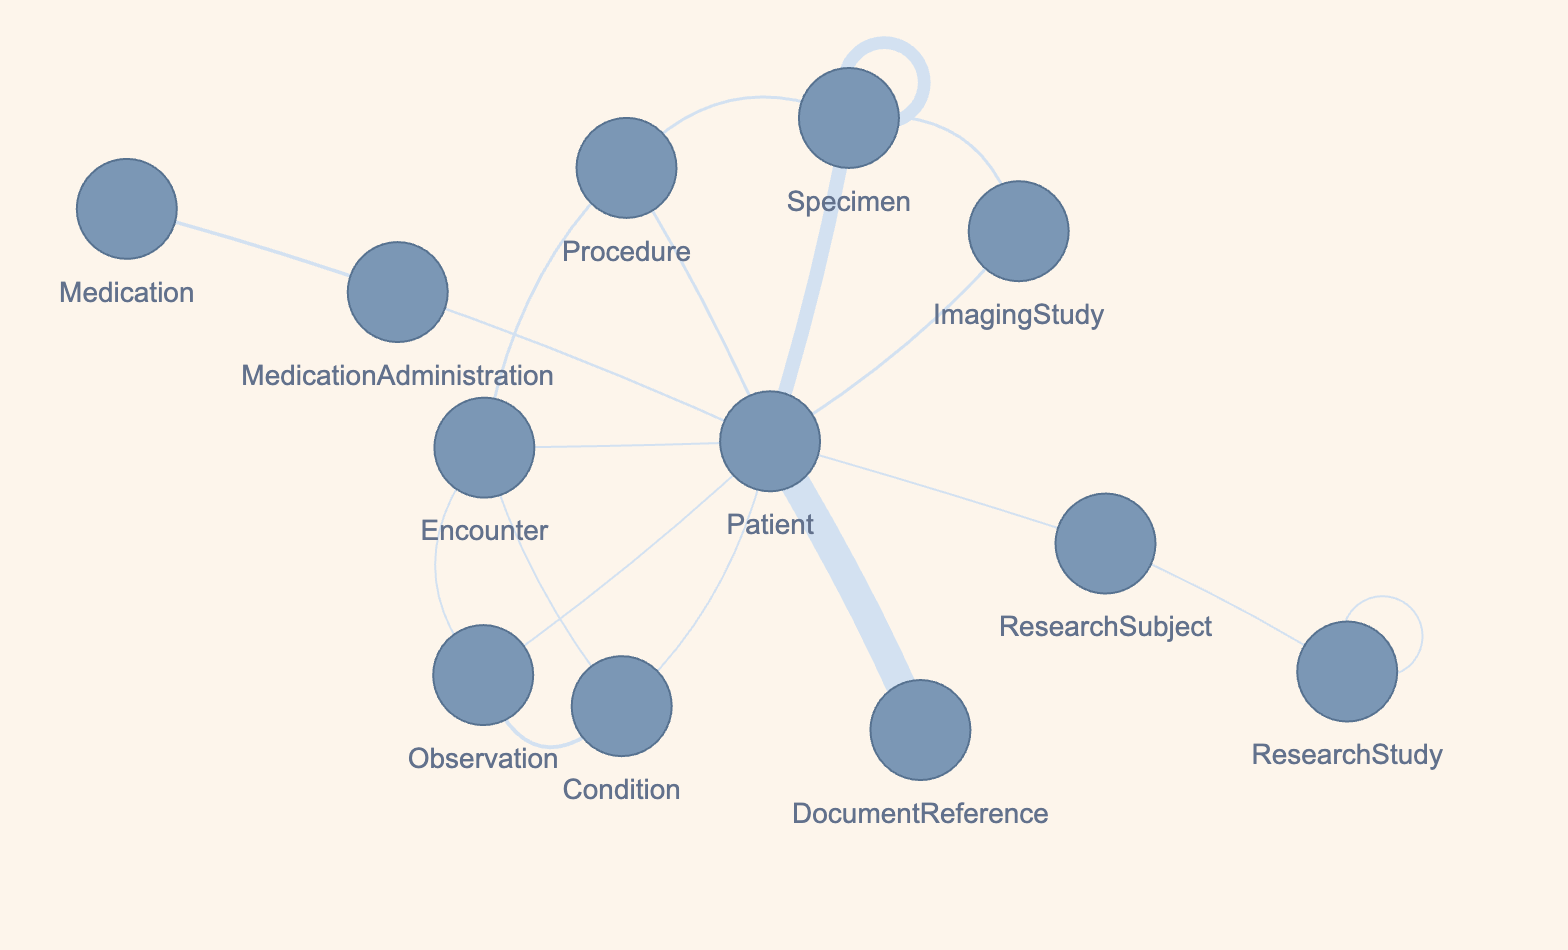
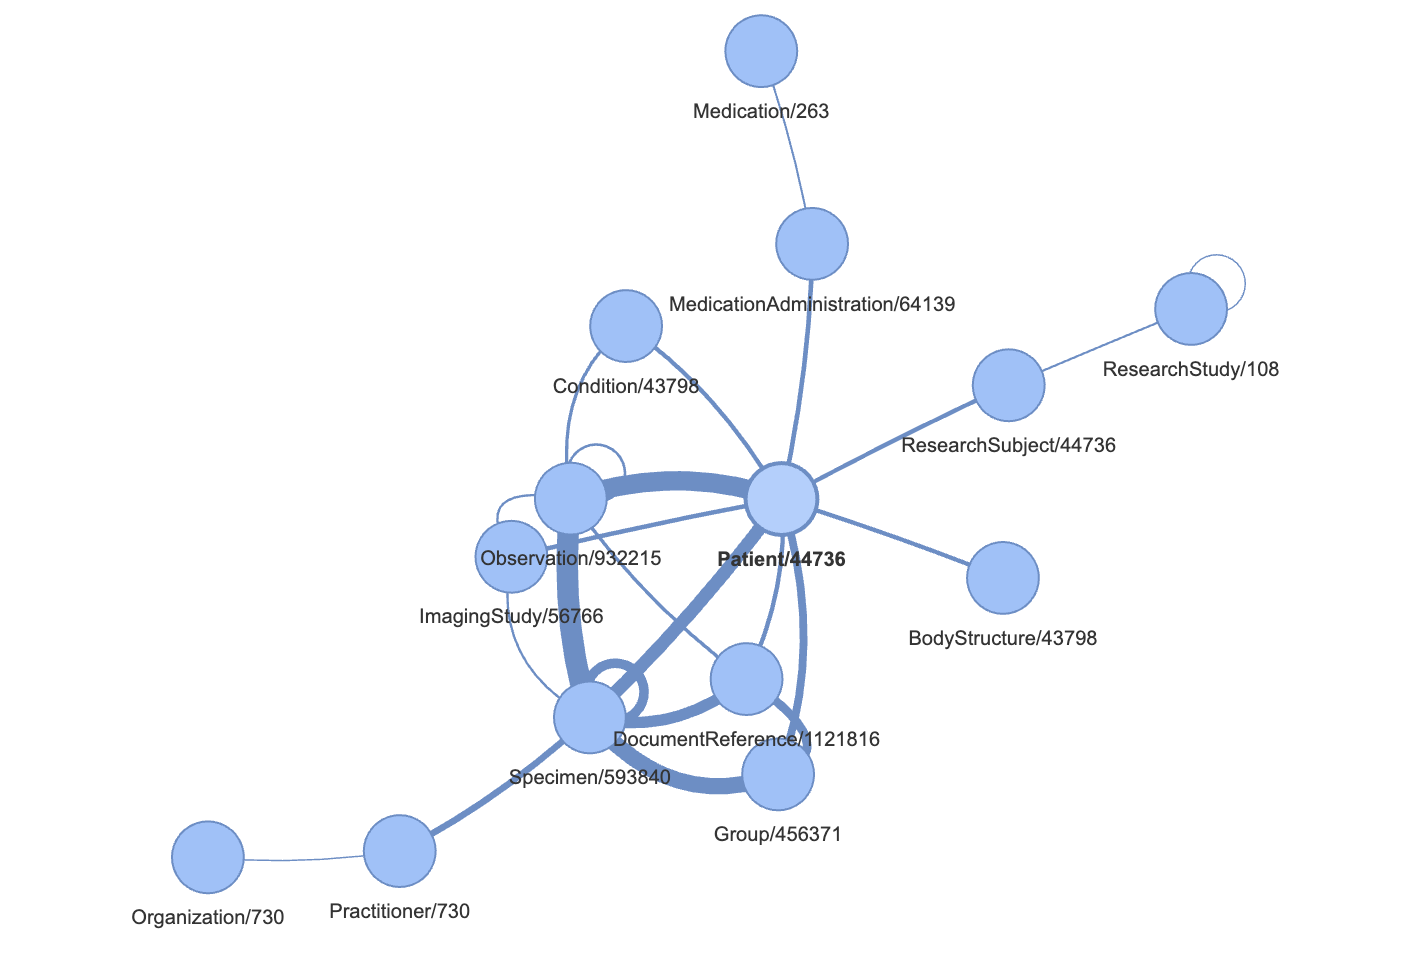
update gdc graph img

diff --git a/README.md b/README.md
@@ -10,7 +10,7 @@
 ### Project overview:
 Transforms and harmonizes data from Genomic Data Commons (GDC), Cellosaurus cell-lines, International Cancer Genome Consortium (ICGC), and Human Tumor Atlas Network (HTAN) repositories into 🔥 FHIR (Fast Healthcare Interoperability Resources) format.
 
-- #### GDC study simplified FHIR graph 
+- #### GDC's transformed data FHIR graph 
 ![mapping](./imgs/gdc_tcga_study_example_fhir_graph.png)
 
 ## Usage 
